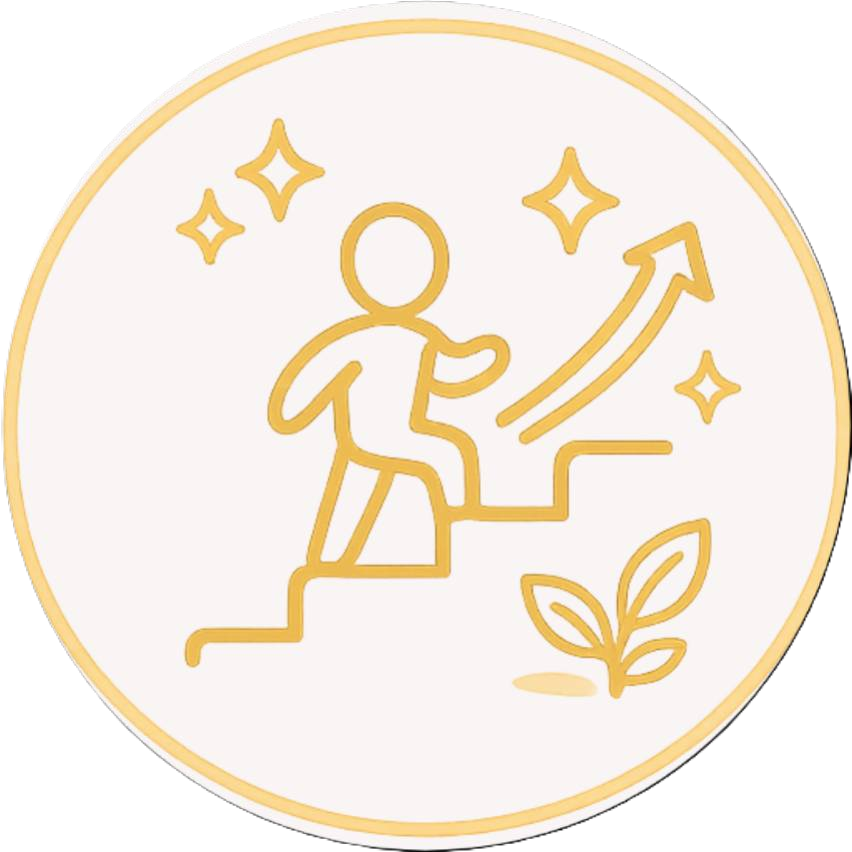
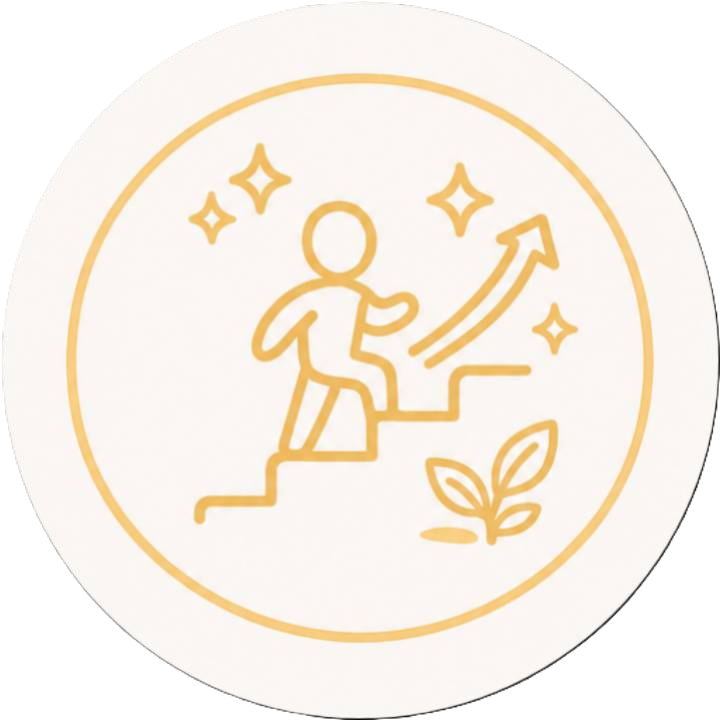
画像修正

Changed region(s): [[0.0917, 0.0917, 0.9167, 0.9167], [0.0, 0.0, 1.0, 1.0]]

diff --git a/css/style.css b/css/style.css
@@ -494,6 +494,8 @@ header {
 .service-trigger img {
   width: 80px;
   display: block;
+  border-radius: 50%;
+  box-shadow: 0 8px 20px rgba(0,0,0,0.15);
 }
 
 .service-trigger h3 {